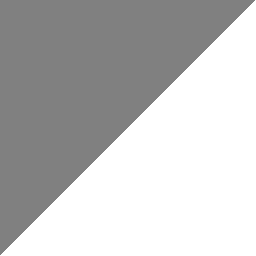
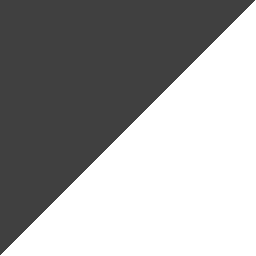
more light and shadow experiments

diff --git a/render.c b/render.c
@@ -11,7 +11,8 @@
 void game_render(game_state *state, SDL_Window *window, texture_data *textures)
 {
 	// clear background
-	glClearColor(0.50f,0.125f,0.25f,1.0f);
+	glShadeModel(GL_FLAT);
+	glClearColor(0.025f,0.025f,0.025f,1.0f);
 	glClear(GL_COLOR_BUFFER_BIT | GL_DEPTH_BUFFER_BIT);
 
 	// set up projection matrix and window size
@@ -47,8 +48,10 @@ void game_render(game_state *state, SDL_Window *window, texture_data *textures)
 	glLightModelfv(GL_LIGHT_MODEL_AMBIENT,AmbientGlobal);
 
 	glLightf(GL_LIGHT0, GL_CONSTANT_ATTENUATION, 1.f);
-	glLightf(GL_LIGHT0, GL_LINEAR_ATTENUATION, 0.01f);
-	glLightf(GL_LIGHT0, GL_QUADRATIC_ATTENUATION, 0.f);
+	glLightf(GL_LIGHT0, GL_LINEAR_ATTENUATION, 0.0f);
+	glLightf(GL_LIGHT0, GL_QUADRATIC_ATTENUATION,1./(512.0*512.0));
+
+	GLfloat spec[4] = {0.f,0.f,0.f,1.f};
 
 	GLfloat light_pos[4];
 	light_pos[0] = state->camx;
@@ -56,6 +59,7 @@ void game_render(game_state *state, SDL_Window *window, texture_data *textures)
 	light_pos[2] = state->camz;
 	light_pos[3] = 1.f;
 	glLightfv(GL_LIGHT0,GL_POSITION,light_pos);
+	glLightfv(GL_LIGHT0,GL_SPECULAR,spec);
 	
 	glEnable(GL_LIGHTING);
 	glEnable(GL_LIGHT0);

diff --git a/main.c b/main.c
@@ -25,7 +25,7 @@ int main()
 
 	// turn on double buffering and vsync
 	SDL_GL_SetAttribute(SDL_GL_DOUBLEBUFFER,1);
-	SDL_GL_SetSwapInterval(1);
+	//SDL_GL_SetSwapInterval(1);
 
 	// initialze some variables for the main loop
 	#define TARGET_FPS 60
@@ -68,14 +68,18 @@ int main()
 			if (event.type==SDL_QUIT)
 					quit=1;
 				if (event.type == SDL_KEYDOWN)
+				{
 					if (event.key.keysym.sym == SDLK_ESCAPE)
 						quit = 1;
+					
+				}
+				if (event.type == SDL_KEYUP)
+				{
 					if (event.key.keysym.sym == SDLK_RETURN)
 					{
-
 						state->next_level = 1;
-						break;
 					}
+				}
 		}
 
 		game_simulate(state,key_state);

diff --git a/state.h b/state.h
@@ -39,7 +39,6 @@ typedef struct game_state
 	float camz;
 	float camdir;
 	float camzdir;
-
 }game_state;
 
 // create game state object
